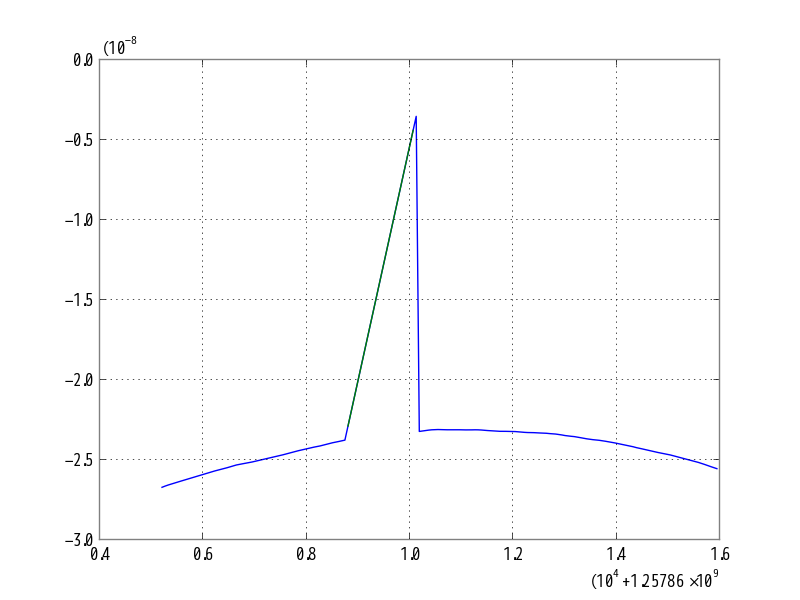
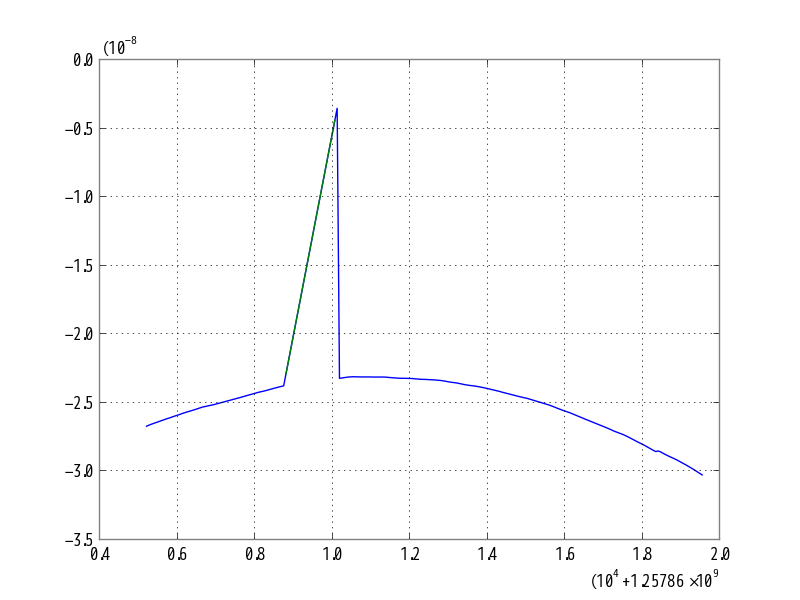
Add

diff --git a/ugm/strainmeter/main.py b/ugm/strainmeter/main.py
@@ -20,7 +20,7 @@ def nan_helper(y):
 start = tconvert('Nov 13 2019 00:00:00 JST')
 start = tconvert('Nov 16 2019 00:00:00 JST')
 end   = tconvert('Nov 20 2019 00:00:00 JST')
-end   = tconvert('Nov 16 2019 02:00:00 JST')
+end   = tconvert('Nov 16 2019 03:00:00 JST')
 chname = ['K1:GIF-X_STRAIN_OUT_DQ.mean']
 fnamelist = existedfilelist(start,end,trend='minute')
 print(fnamelist)
@@ -38,7 +38,7 @@ plt.plot(_x,_y)
 plt.plot(_x[nans],y[nans])
 plt.savefig('hoge.png')
 plt.close()
-exit()
+#exit()
 # plot = gif.plot()
 # plot.savefig('hoge.png')
 # plot.close()
